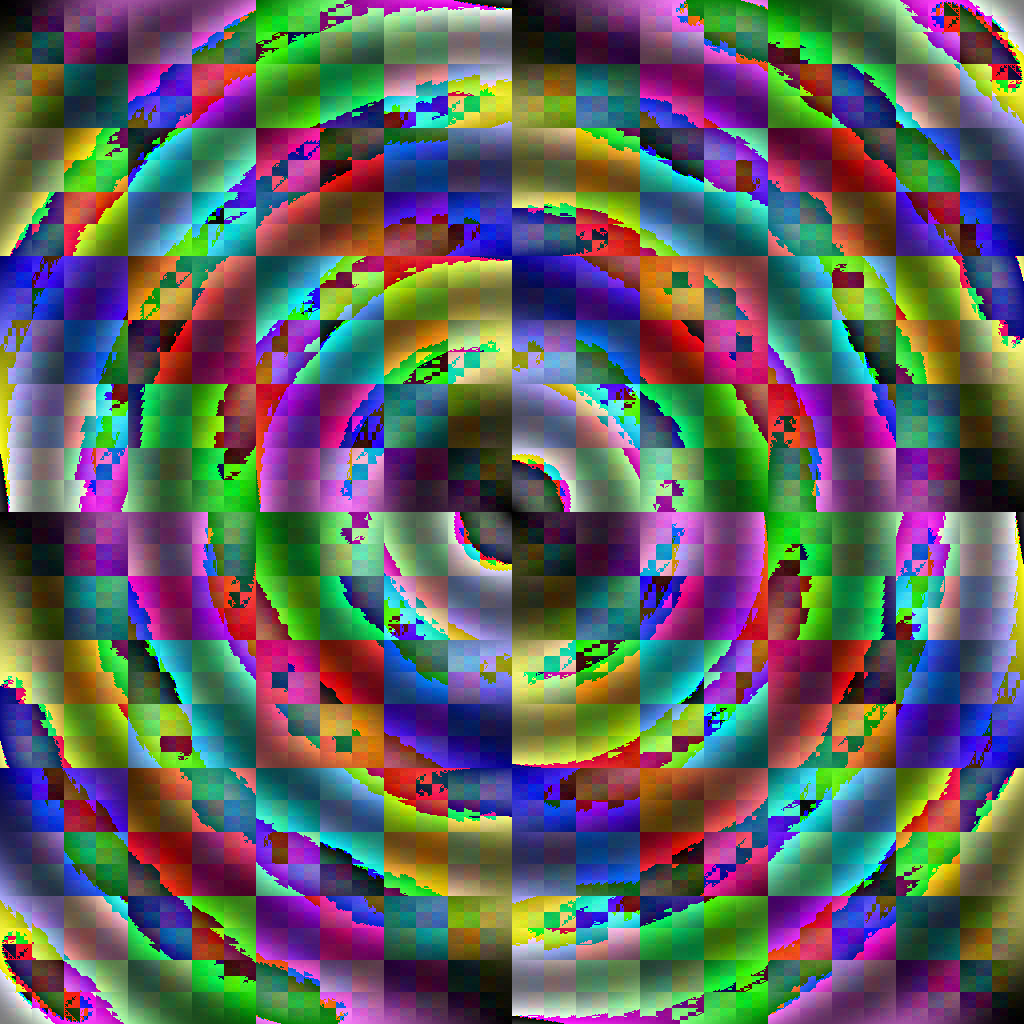
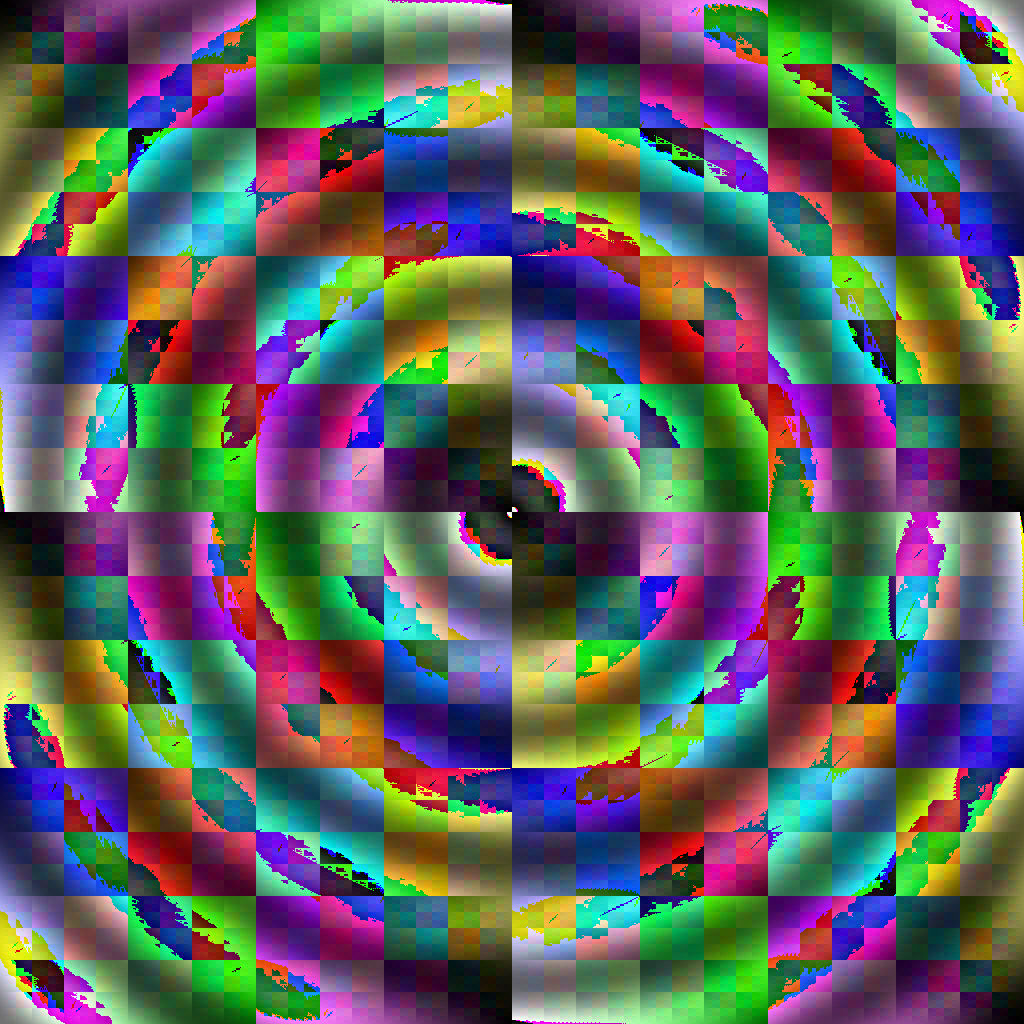
mess

diff --git a/src/lecture_7/Sample2.java b/src/lecture_7/Sample2.java
@@ -15,7 +15,7 @@ public class Sample2 {
 		for (int y = 0; y < h; y++)
 			for (int x = 0; x < w; x++) {
 				int r, g, b;
-				double l = 1.0 + 0.5 * Math.sin(0.05 * Math.sqrt((x - w2) * (x - w2)
+				double l = 0.9 + 0.45 * Math.sin(0.05 * Math.sqrt((x - w2) * (x - w2)
 						+ (y - h2) * (y - h2)));
 
 				r = (x ^ y) & 0xFF;
